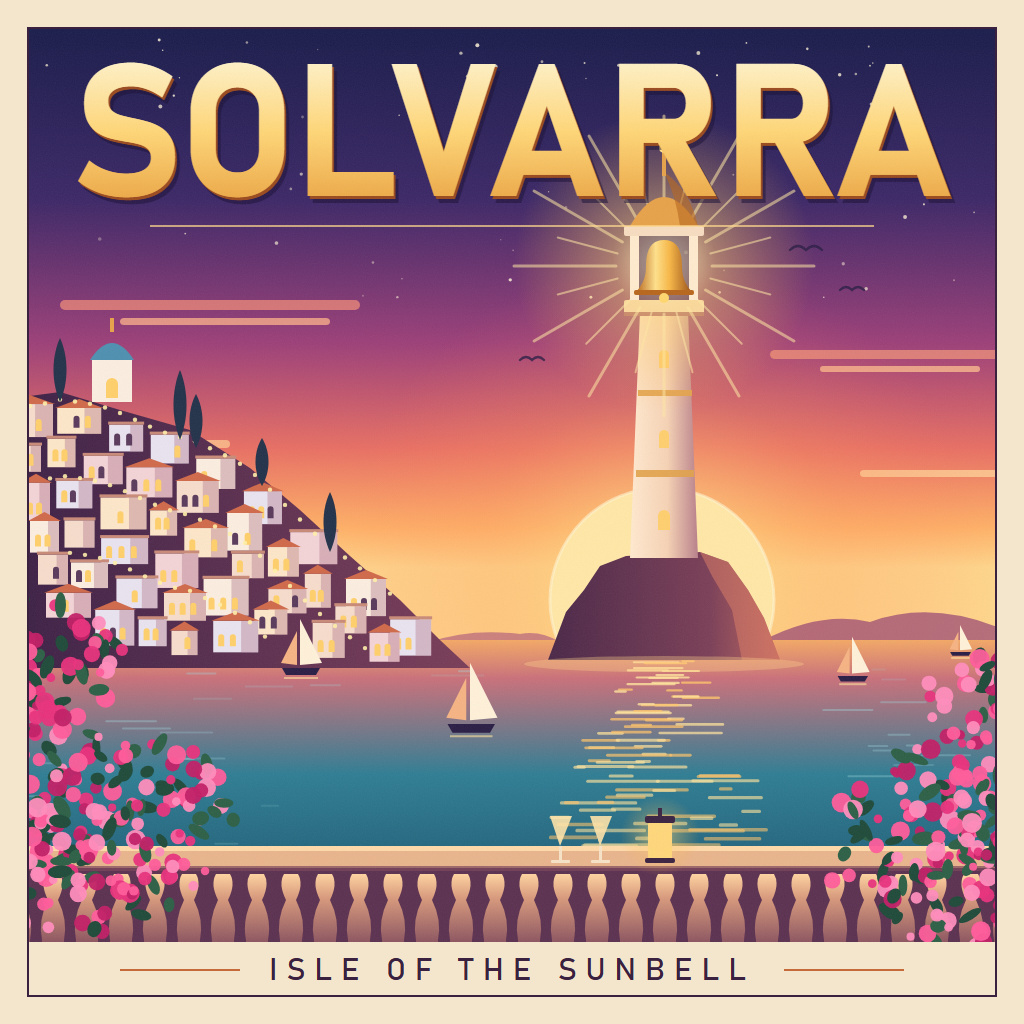
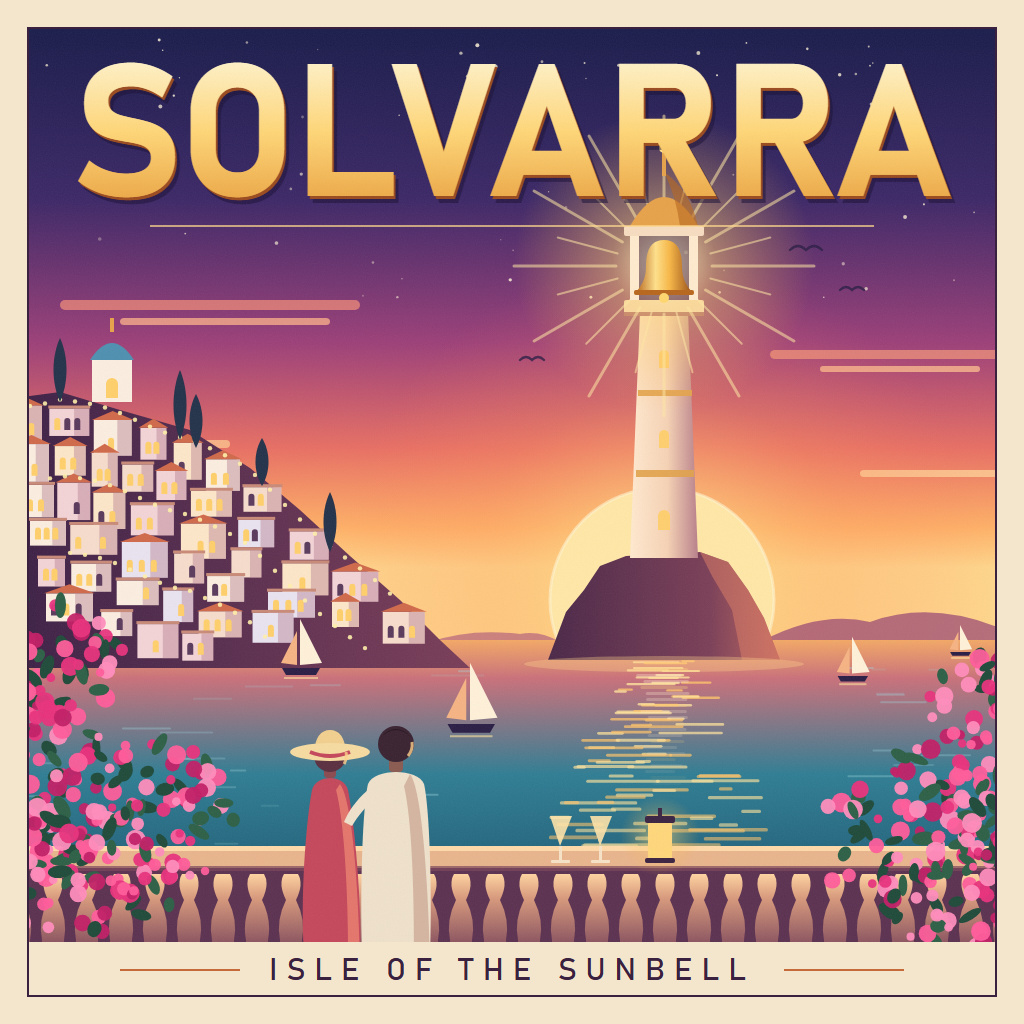
Add a couple at the rail and the tower's reflection

diff --git a/src/poster.html b/src/poster.html
@@ -105,6 +105,7 @@
   <path d="M548 660 L566 612 L584 590 L600 566 L626 556 L700 552 L728 562 L748 590 L764 618 L780 660 Z" fill="url(#rock)"/>
   <path d="M700 552 L728 562 L748 590 L764 618 L780 660 L742 660 L732 610 L712 576 Z" fill="#d97a64" opacity="0.55"/>
   <ellipse cx="664" cy="664" rx="140" ry="8" fill="#ffd28a" opacity="0.35"/>
+  <g id="reflect" opacity="0.35"></g>
   <!-- tower shaft -->
   <path d="M630 558 L640 312 L688 312 L698 558 Z" fill="url(#tower)"/>
   <g fill="#e2a24a" opacity="0.9">
@@ -173,6 +174,27 @@
     <rect x="658" y="808" width="4" height="9" fill="#3a2342"/>
   </g>
 
+  <!-- a couple at the rail, watching the Sunbell -->
+  <g>
+    <!-- her: sun hat and coral dress -->
+    <path d="M304 954 C300 900 306 820 312 790 C316 774 344 774 348 790 C354 820 362 900 360 954 Z" fill="#c4475a"/>
+    <path d="M340 784 C352 800 358 880 360 954 L348 954 C348 890 344 820 336 790 Z" fill="#ff9a7a" opacity="0.55"/>
+    <rect x="324" y="764" width="12" height="14" rx="4" fill="#8a4a4f"/>
+    <circle cx="330" cy="756" r="16" fill="#5a2f3f"/>
+    <path d="M314 752 Q316 730 330 730 Q344 730 346 752 Z" fill="#f2cf8e"/>
+    <ellipse cx="330" cy="752" rx="40" ry="9" fill="#f6dba0"/>
+    <path d="M310 752 Q330 760 350 752" stroke="#c4475a" stroke-width="4" fill="none"/>
+    <!-- him: cream linen shirt -->
+    <path d="M362 954 C360 900 362 810 368 784 C374 768 418 768 424 784 C430 810 432 900 430 954 Z" fill="#efe1cb"/>
+    <path d="M410 774 C422 790 428 880 430 954 L414 954 C414 890 412 820 404 786 Z" fill="#c9a28e" opacity="0.7"/>
+    <path d="M368 790 C356 800 348 812 344 822 L352 826 C358 816 366 806 374 800 Z" fill="#efe1cb"/>
+    <rect x="389" y="756" width="14" height="16" rx="4" fill="#8a5a50"/>
+    <circle cx="396" cy="744" r="18" fill="#3a2230"/>
+    <path d="M380 738 Q396 720 412 738 Q404 730 396 730 Q388 730 380 738 Z" fill="#24151f"/>
+    <path d="M412 742 a18 18 0 0 1 -4 14" stroke="#ffcf8a" stroke-width="3" fill="none" opacity="0.8"/>
+    <path d="M346 752 a16 16 0 0 1 -2 12" stroke="#ffcf8a" stroke-width="3" fill="none" opacity="0.8"/>
+  </g>
+
   <!-- title -->
   <text x="512" y="196" text-anchor="middle" class="title" font-size="186" textLength="880" lengthAdjust="spacingAndGlyphs" fill="#1b1036" opacity="0.55" transform="translate(5,7)">SOLVARRA</text>
   <text x="512" y="196" text-anchor="middle" class="title" font-size="186" textLength="880" lengthAdjust="spacingAndGlyphs" fill="#9a4a1e" transform="translate(2,3)">SOLVARRA</text>
@@ -218,6 +240,13 @@
       el('sunpath', 'rect', {x: x.toFixed(1), y: y + rnd() * 3, width: w.toFixed(1), height: (2 + t * 2.5).toFixed(1), rx: 1.5,
         fill: rnd() < 0.5 ? '#ffe39c' : '#ffc46a', opacity: (0.85 - t * 0.45).toFixed(2)});
     }
+  }
+  // the Sunbell tower's broken reflection under the sea stack
+  for (let y = 668, i = 0; y < 800; y += 6, i++) {
+    const t = (y - 668) / 132;
+    const w = 44 * (1 - t * 0.5) + rnd() * 10;
+    el('reflect', 'rect', {x: (664 - w / 2 + (rnd() - 0.5) * 10).toFixed(1), y: y, width: w.toFixed(1), height: 3,
+      rx: 1.5, fill: i % 3 === 0 ? '#ffd27a' : '#ffe9cf', opacity: (1 - t).toFixed(2)});
   }
   // soft ripples across the bay
   for (let i = 0; i < 60; i++) {
